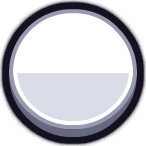
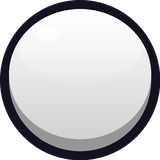
Custom Roblox-simulator UI kit: glossy outlined buttons, round buttons, header, panel, slot, window, NEW!/x2 stickers
Claude-Session: https://claude.ai/code/session_01QBXJt8FujAYBNvGqHfCJbe

Changed region(s): [[0.0, 0.0, 1.0, 1.0]]

diff --git a/Docs/draw_ui_kit.py b/Docs/draw_ui_kit.py
@@ -1,0 +1,122 @@
+# Набор интерфейса в стиле роблокс-симуляторов (рисуется кодом в высоком разрешении, суперсэмплинг x4)
+from PIL import Image, ImageDraw, ImageFilter, ImageFont, ImageChops
+import math
+OUT="/home/user/robloxkalyandex/Assets/_Game/Resources/Art/"
+FONT="/tmp/claude-0/-home-user/86ac1269-ff02-5b52-ae58-50e228fe329f/scratchpad/assets/Rubik-ExtraBold.ttf"
+S=4
+DARK=(20,18,32,255)
+
+def canvas(w,h): return Image.new("RGBA",(w*S,h*S),(0,0,0,0))
+def rr(img,box,r,fill):
+    ImageDraw.Draw(img).rounded_rectangle([v*S for v in box],radius=r*S,fill=fill)
+def mask_rr(w,h,box,r):
+    m=Image.new("L",(w*S,h*S),0); ImageDraw.Draw(m).rounded_rectangle([v*S for v in box],radius=r*S,fill=255); return m
+def vgrad(w,h,top,bot,y0=0,y1=None):
+    y1=h if y1 is None else y1
+    g=Image.new("RGBA",(w*S,h*S))
+    px=[]
+    for y in range(h*S):
+        t=min(1,max(0,(y/S-y0)/max(1,(y1-y0))))
+        c=tuple(int(top[i]+(bot[i]-top[i])*t) for i in range(4))
+        px.append(c)
+    d=ImageDraw.Draw(g)
+    for y,c in enumerate(px): d.line([(0,y),(w*S,y)],fill=c)
+    return g
+def paste_masked(img,src,m):
+    tmp=Image.new("RGBA",img.size,(0,0,0,0)); tmp.paste(src,(0,0),m); img.alpha_composite(tmp)
+def done(img,w,h,name):
+    img.resize((w,h),Image.LANCZOS).save(OUT+name); print(name,w,h)
+
+def grey(v,a=255): return (v,v,v,a)
+
+def button(w,h,r,name,lip=16,t=9):
+    img=canvas(w,h)
+    rr(img,(0,0,w,h),r,DARK)                                   # толстая тёмная обводка
+    rr(img,(t,t,w-t,h-t),r-t,grey(150))                        # нижняя "губа" (объём)
+    face=mask_rr(w,h,(t,t,w-t,h-t-lip),r-t)
+    paste_masked(img,vgrad(w,h,grey(255),grey(212),t,h-t-lip),face)
+    # глянец на верхней половине
+    gl=mask_rr(w,h,(t+8,t+6,w-t-8,t+(h-2*t-lip)*0.48),max(4,r-t-6))
+    paste_masked(img,vgrad(w,h,(255,255,255,150),(255,255,255,30),t+6,t+(h-2*t-lip)*0.48),gl)
+    # светлая кромка сверху внутри
+    d=ImageDraw.Draw(img)
+    # блик-капля слева сверху
+    done(img,w,h,name)
+
+def round_button(n,name,lip=12,t=9):
+    img=canvas(n,n); d=ImageDraw.Draw(img)
+    d.ellipse([0,0,n*S,n*S],fill=DARK)
+    d.ellipse([t*S,t*S,(n-t)*S,(n-t)*S],fill=grey(150))
+    m=Image.new("L",img.size,0); ImageDraw.Draw(m).ellipse([t*S,t*S,(n-t)*S,(n-t-lip)*S],fill=255)
+    paste_masked(img,vgrad(n,n,grey(255),grey(210),t,n-t-lip),m)
+    m2=Image.new("L",img.size,0); ImageDraw.Draw(m2).ellipse([(t+10)*S,(t+6)*S,(n-t-10)*S,(n*0.52)*S],fill=255)
+    paste_masked(img,vgrad(n,n,(255,255,255,150),(255,255,255,20),t+6,n*0.52),m2)
+    d.ellipse([(n*0.24)*S,(n*0.17)*S,(n*0.36)*S,(n*0.25)*S],fill=(255,255,255,210))
+    done(img,n,n,name)
+
+def panel(w,h,r,name):
+    img=canvas(w,h)
+    m=mask_rr(w,h,(0,0,w,h),r)
+    paste_masked(img,vgrad(w,h,grey(255),grey(222)),m)
+    # внутренняя светлая рамка и мягкая тень снизу
+    inner=mask_rr(w,h,(5,5,w-5,h-5),r-5)
+    ring=ImageChops.subtract(m,inner)
+    paste_masked(img,Image.new("RGBA",img.size,grey(255)),ring)
+    gl=mask_rr(w,h,(8,8,w-8,h*0.4),r-8)
+    paste_masked(img,vgrad(w,h,(255,255,255,90),(255,255,255,0),8,h*0.4),gl)
+    done(img,w,h,name)
+
+def slot(n,r,name,t=8):
+    img=canvas(n,n)
+    rr(img,(0,0,n,n),r,DARK)
+    m=mask_rr(n,n,(t,t,n-t,n-t),r-t)
+    paste_masked(img,vgrad(n,n,grey(170),grey(235),t,n-t),m)      # утопленная ячейка: сверху темнее
+    sh=mask_rr(n,n,(t,t,n-t,t+18),r-t)
+    paste_masked(img,vgrad(n,n,(0,0,0,70),(0,0,0,0),t,t+18),sh)
+    ring=ImageChops.subtract(mask_rr(n,n,(t,t,n-t,n-t),r-t),mask_rr(n,n,(t+4,t+4,n-t-4,n-t-4),r-t-4))
+    paste_masked(img,Image.new("RGBA",img.size,grey(250,200)),ring)
+    done(img,n,n,name)
+
+def window(n,r,name,t=12):
+    img=canvas(n,n)
+    rr(img,(0,0,n,n),r,DARK)
+    rr(img,(t,t,n-t,n-t),r-t,(78,98,190,255))                        # светлая внутренняя кромка
+    m=mask_rr(n,n,(t+5,t+5,n-t-5,n-t-5),r-t-5)
+    paste_masked(img,vgrad(n,n,(40,52,118,255),(26,32,78,255),t,n-t),m)
+    sh=mask_rr(n,n,(t+5,t+5,n-t-5,t+40),r-t-5)
+    paste_masked(img,vgrad(n,n,(0,0,0,90),(0,0,0,0),t+5,t+40),sh)
+    done(img,n,n,name)
+
+def sticker(w,h,text,name,c1,c2,fs,rot=-6,burst=False):
+    img=canvas(w,h); d=ImageDraw.Draw(img)
+    pad=10
+    if burst:
+        cx,cy=w/2*S,h/2*S; pts=[]
+        for i in range(32):
+            a=i/32*2*math.pi; rad=(min(w,h)/2-pad)*(1 if i%2==0 else 0.8)*S
+            pts.append((cx+math.cos(a)*rad*w/min(w,h)*0.92,cy+math.sin(a)*rad))
+        d.polygon(pts,fill=DARK)
+        pts2=[(cx+(x-cx)*0.9,cy+(y-cy)*0.86) for x,y in pts]
+        m=Image.new("L",img.size,0); ImageDraw.Draw(m).polygon(pts2,fill=255)
+        paste_masked(img,vgrad(w,h,c1,c2),m)
+    else:
+        rr(img,(pad,pad,w-pad,h-pad),(h-2*pad)/2.2,DARK)
+        m=mask_rr(w,h,(pad+7,pad+7,w-pad-7,h-pad-7),(h-2*pad)/2.2-7)
+        paste_masked(img,vgrad(w,h,c1,c2,pad,h-pad),m)
+        gl=mask_rr(w,h,(pad+14,pad+10,w-pad-14,h*0.48),(h-2*pad)/3)
+        paste_masked(img,vgrad(w,h,(255,255,255,120),(255,255,255,10),pad+10,h*0.48),gl)
+    f=ImageFont.truetype(FONT,fs*S)
+    bb=d.textbbox((0,0),text,font=f,stroke_width=int(fs*0.16*S))
+    tx=(w*S-(bb[2]-bb[0]))/2-bb[0]; ty=(h*S-(bb[3]-bb[1]))/2-bb[1]
+    d.text((tx,ty),text,font=f,fill=(255,255,255,255),stroke_width=int(fs*0.16*S),stroke_fill=DARK)
+    img=img.rotate(rot,resample=Image.BICUBIC,expand=False)
+    done(img,w,h,name)
+
+button(420,150,40,"ui_button.png")
+round_button(160,"ui_button_round.png")
+button(1024,190,44,"ui_header.png",lip=14,t=10)
+panel(256,256,40,"ui_panel.png")
+slot(160,34,"ui_slot.png")
+window(512,56,"ui_window.png")
+sticker(260,120,"NEW!","ui_badge_new.png",(255,110,90,255),(226,30,60,255),52)
+sticker(220,170,"x2","ui_badge_x2.png",(255,238,90,255),(255,140,20,255),78,rot=-10,burst=True)
